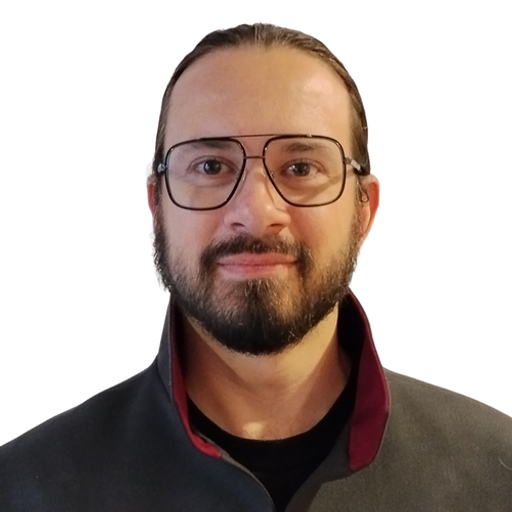
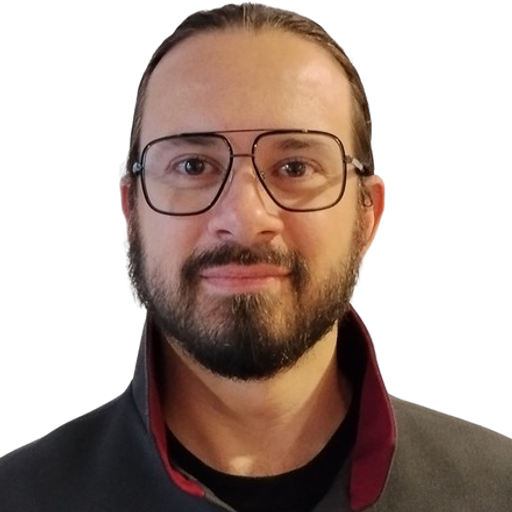
feat: update to v0.2.0, refresh Hero section visuals, and add version command to CLI

diff --git a/public/sw.js b/public/sw.js
@@ -1,5 +1,5 @@
 // Service Worker for JATC Portfolio PWA Offline Support
-const CACHE_NAME = 'jatc-portfolio-v1';
+const CACHE_NAME = 'jatc-portfolio-v2';
 const ASSETS_TO_CACHE = [
   '/',
   '/en/',

diff --git a/context.md b/context.md
@@ -66,7 +66,7 @@ El proyecto es un portafolio de alto rendimiento, optimizado para SEO y experien
 - **Accesibilidad y UX:**
   - Enlace accesible "Skip to main content" (saltar al contenido) para navegación rápida con teclado (WCAG 2.4.1).
   - Sincronización activa de links en el menú de navegación (Header) según la sección de la página visible durante el scroll, con controles flotantes de "Scroll to Top" e impresión rápida de página (optimizados por posicionamiento absoluto y transiciones mediante variables CSS nativas, ocultándose durante la impresión).
-  - Consola CLI interactiva en la sección Hero con soporte para comandos de teclado (`help`, `whoami`, `skills`, `experience`, `projects`, `contact`, `cv`, `theme`, `matrix`, `clear`, `sudo`) y navegación por historial (flechas Arriba/Abajo).
+  - Consola CLI interactiva en la sección Hero con soporte para comandos de teclado (`help`, `whoami`, `skills`, `experience`, `projects`, `contact`, `cv`, `theme`, `version`, `matrix`, `clear`, `sudo`) y navegación por historial (flechas Arriba/Abajo).
   - Filtro dinámico cruzado por tecnologías en [Skills.astro](file:///Users/joaltoroc/Code/joaltoroc/jatc.co/src/components/Skills.astro) que resalta las tarjetas correspondientes en Experiencia y Proyectos.
   - Modal interactivo de detalles de arquitectura de proyectos en [Projects.astro](file:///Users/joaltoroc/Code/joaltoroc/jatc.co/src/components/Projects.astro).
   - Widget de asistente de IA flotante bilingüe ("Ask John's AI") en [AiAssistant.astro](file:///Users/joaltoroc/Code/joaltoroc/jatc.co/src/components/AiAssistant.astro).
